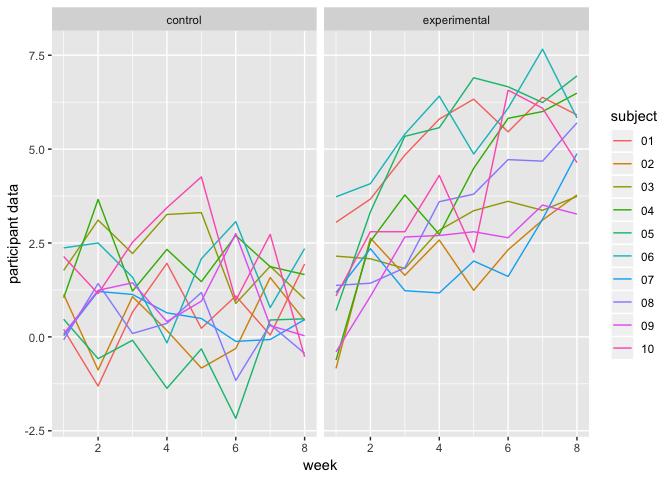
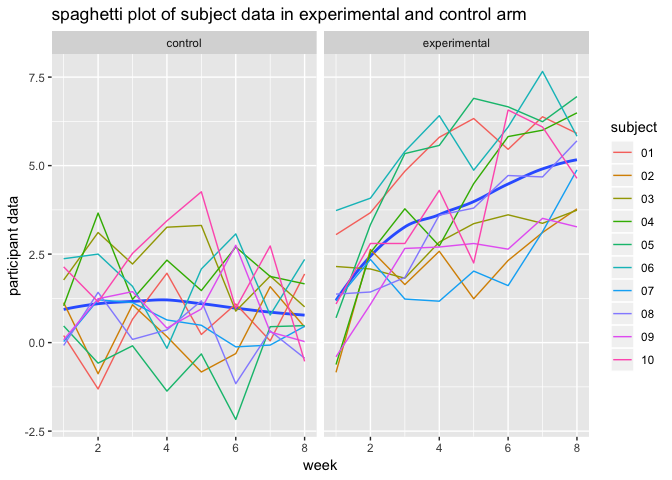
modify some explaination of code chunk to make the whole report more readable. Done~

diff --git a/p8105_hw5_jx2371.md b/p8105_hw5_jx2371.md
@@ -9,14 +9,14 @@ Problem1
 read and clean the data
 -----------------------
 
-First of all, a code chunck is used to create a dataframe containing all file names
+First of all, a code chunk is used to create a dataframe containing all file names
 
 ``` r
 library(tidyverse)
 df = list.files(path = "./data1")
 ```
 
-Then, a code chunk is written to read the data in all the files and collected them in one dataset. A seires cleaning is made to the dataset.
+Then, a code chunk is written to read the data in all the files and collected them in one dataset. A seires of cleaning is made to the dataset.
 
 ``` r
 read_data = function(x){read_csv(file = str_c("./data1/", x))%>%
@@ -32,22 +32,28 @@ tidy_data = map(df, read_data)%>%
   mutate(week = str_replace(week, "week_", ""))
 ```
 
+Finally, the tidy dataset contains "group" variable showing the type of the study group(control arm/experimental arm); the "week" variable showing which week the subject data is observed, the "subject" variable showing which subject is oberved with a unique id and the"data" variable showing the data observed related to a single subject.
+
 Draw a spaghetti plot
 ---------------------
 
-Now, we use ggplot to draw a spagetti plot
+Now, we use ggplot to draw a spagetti plot. Additionaly, a smooth estimate curve(the dark blue line) is drawn to see the general trend of subject data over the 8 weeks.
 
 ``` r
-ggplot(tidy_data, aes(x = as.numeric(week), y = data, color = subject))+
-  geom_line()+
+ggplot(tidy_data, aes(x = as.numeric(week), y = data))+
+  geom_smooth(se = FALSE)+
+  geom_line(aes(color=subject))+
   labs(x = "week", 
-         y = "participant data")+
+      y = "participant data",
+      title = "spaghetti plot of subject data in experimental and control arm")+
   facet_grid(.~group)
 ```
 
 ![](p8105_hw5_jx2371_files/figure-markdown_github/unnamed-chunk-3-1.png)
 
-Overall，we can see the data of experimental group is higher than that of control group.
+Comment on the difference between two groups:
+
+Overall，we can see the data of subjects in experimental group is higher than that of control group. And from the perspective of general trend over time, the control group is more gentle and the smooth curve seems almost flat with a slightly decrease. However, the trend of subject data in experimental group is obviously increasing over time.
 
 Problem 2
 =========
@@ -84,7 +90,7 @@ str(homcide)
 manipulate the data
 -------------------
 
-1.  Create a city\_state variable (e.g. “Baltimore, MD”) and then summarize within cities to obtain the total number of homicides and the number of unsolved homicides (those for which the disposition is “Closed without arrest” or “Open/No arrest”).
+1.  The code chunk below creates a city\_state variable (e.g. “Baltimore, MD”) and then summarizes within cities to obtain the total number of homicides and the number of unsolved homicides (those for which the disposition is “Closed without arrest” or “Open/No arrest”).
 
 ``` r
 homcide_new=homcide%>%
@@ -160,7 +166,7 @@ knitr::kable(homcide_by_city)
 | Tulsa,OK          |            583|               193|
 | Washington,DC     |           1345|               589|
 
-2.For the city of Baltimore, MD, use the prop.test function to estimate the proportion of homicides that are unsolved; save the output of prop.test as an R object, apply the broom::tidy to this object and pull the estimated proportion and confidence intervals from the resulting tidy dataframe.
+2.For the city of Baltimore, MD, the code chunk below (1)uses the prop.test function to estimate the proportion of homicides that are unsolved; (2)save the output of prop.test as an R object, (3)apply the broom::tidy to this object. Finally, I pull the estimated proportion and confidence intervals from the resulting tidy dataframe using inline R code.
 
 ``` r
 #caculate the total homecide number of Baltimore
@@ -180,7 +186,7 @@ Baltimore_estimate = prop.test(unsolved, total)%>%
 
 The estimate proportion of Baltimore,MD is 0.6455607. The confidence intervals of Baltimore, MD is (0.6275625,0.6631599)
 
-3.run prop.test for each of the cities in your dataset, and extract both the proportion of unsolved homicides and the confidence interval for each. Do this within a “tidy” pipeline, making use of purrr::map, purrr::map2, list columns and unnest as necessary to create a tidy dataframe with estimated proportions and CIs for each city
+3.run prop.test for each of the cities in your dataset, and extract both the proportion of unsolved homicides and the confidence interval for each. Do this within a “tidy” pipeline, making use of purrr::map, purrr::map2, list columns and unnest as necessary to create a tidy dataframe with estimated proportions and CIs for each city. In the pipeline below, purrr::map2, bind\_rows(), bind\_cols()are used to get a tidy dataframe.
 
 ``` r
 clean_data = function(x,n){prop.test(x, n)%>%
@@ -210,7 +216,9 @@ estimate_tidy
 Draw a plot to show the estimates and CIs
 -----------------------------------------
 
-Create a plot that shows the estimates and CIs for each city – check out geom\_errorbar for a way to add error bars based on the upper and lower limits. Organize cities according to the proportion of unsolved homicides.
+The chunk below creates a plot that shows the estimates and CIs for each city – geom\_errorbar is used to add error bars based on the upper and lower limits.
+
+Also, I organize cities according to the proportion of unsolved homicides from low to high using fct\_reorder function.
 
 ``` r
 estimate_tidy%>%
